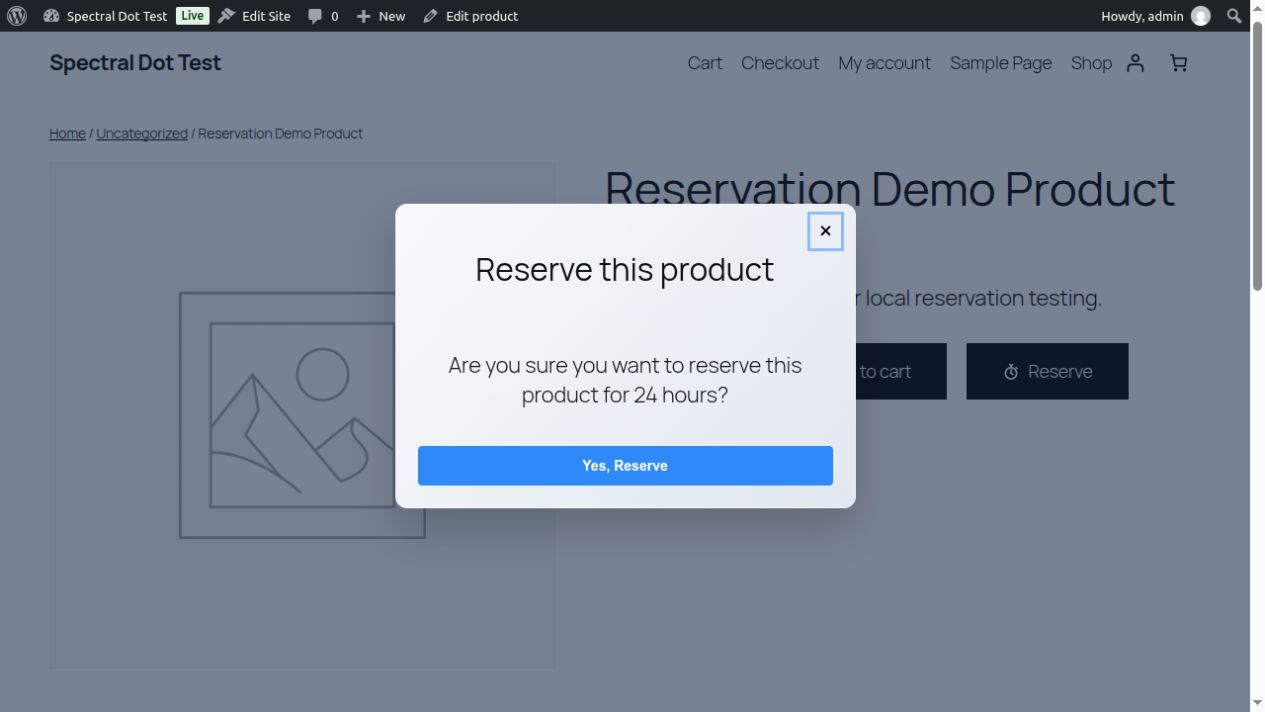
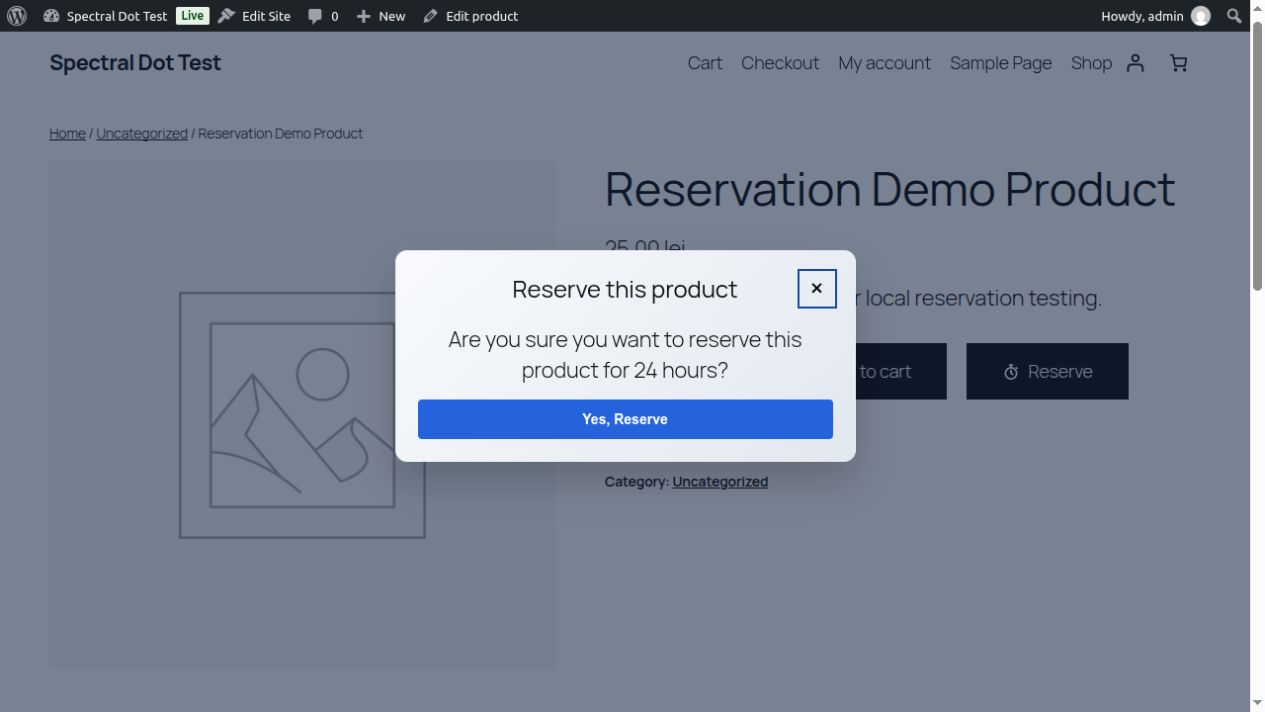
Separate reservation confirmation and result modal states

Changed region(s): [[0.3083, 0.4635, 0.6783, 0.7416], [0.3083, 0.2781, 0.6783, 0.4326]]

diff --git a/assets/css/style.css b/assets/css/style.css
@@ -50,7 +50,7 @@ label[for="rez_check"] {
 }
 
 .sdpr-reservation-notice {
-    margin-bottom: 14px;
+    margin: 0;
     padding: 10px 12px;
     border-radius: 8px;
     border: 1px solid transparent;
@@ -426,7 +426,34 @@ label[for="rez_check"] {
     border: 1px solid rgba(11, 27, 58, 0.12);
 }
 
-/* Ensure form elements are stacked and centered */
+/* Reserve header space for the close control, even when the heading wraps. */
+.sdpr-modal-header {
+    display: grid;
+    grid-template-columns: 32px minmax(0, 1fr) 32px;
+    align-items: start;
+    gap: 8px;
+    margin-bottom: 20px;
+}
+
+#sdpr-reservation-dialog-title {
+    grid-column: 2;
+    grid-row: 1;
+    margin: 0;
+    font-size: 24px;
+    line-height: 1.3;
+    overflow-wrap: anywhere;
+}
+
+.sdpr-reservation-prompt {
+    display: flex;
+    flex-direction: column;
+    gap: 15px;
+}
+
+#sdpr-reservation-dialog-description {
+    margin: 0;
+}
+
 #sdpr-reservation-form {
   display: flex;
   flex-direction: column;
@@ -457,10 +484,17 @@ label[for="rez_check"] {
 }
 
 /* Close button */
-.modal-close {
-  position: absolute;
-  top: 12px;
-  right: 16px;
+.sdpr-modal-header .modal-close {
+  position: static;
+  grid-column: 3;
+  grid-row: 1;
+  display: inline-flex;
+  align-items: center;
+  justify-content: center;
+  width: 32px;
+  height: 32px;
+  padding: 0;
+  line-height: 1;
   background: none;
   border: none;
   font-size: 24px;
@@ -468,12 +502,12 @@ label[for="rez_check"] {
   cursor: pointer;
   transition: color 0.2s;
 }
-.modal-close:hover {
+.sdpr-modal-header .modal-close:hover {
   color: #000;
 }
 
-.modal-close:focus,
-.modal-close:focus-visible {
+.sdpr-modal-header .modal-close:focus,
+.sdpr-modal-header .modal-close:focus-visible {
 	color: #000;
 	outline: 2px solid var(--sdpr-modal-primary-dark);
 	outline-offset: 2px;

diff --git a/assets/js/frontend.js b/assets/js/frontend.js
@@ -3,6 +3,9 @@ jQuery(document).ready(function($) {
 	var $modal = $('#sdpr-reservation-modal');
 	var requestPending = false;
 	var reservationComplete = false;
+	var $title = $('#sdpr-reservation-dialog-title');
+	var confirmationTitle = $title.text();
+	var confirmationButtonText = $modal.find('button[type="submit"]').text();
 
 	function responseMessage(response, fallback) {
 		return response && typeof response.data === 'string' && response.data ? response.data : fallback;
@@ -71,6 +74,11 @@ jQuery(document).ready(function($) {
         }
 
         clearNotice();
+		reservationComplete = false;
+		$title.text(confirmationTitle);
+		$modal.find('button[type="submit"]').prop('disabled', false).text(confirmationButtonText);
+		$modal.find('.sdpr-reservation-prompt').show();
+		$modal.find('[role="dialog"]').attr('aria-describedby', 'sdpr-reservation-dialog-description');
         $('#sdpr-reservation-form').find('input[name="product_id"]').val(productId);
         
 		$modal.show().attr('aria-hidden', 'false');
@@ -140,6 +148,9 @@ jQuery(document).ready(function($) {
         .done(function(response) {
             if (response.success) {
 				reservationComplete = true;
+				$modal.find('.sdpr-reservation-prompt').hide();
+				$title.text($title.attr('data-result-title'));
+				$modal.find('[role="dialog"]').attr('aria-describedby', 'sdpr-reservation-result');
                 var successMessage = responseMessage(response, sdprFrontend.i18n.success);
                 renderNotice(successMessage, 'success');
 				$submitBtn.prop('disabled', false).text(sdprFrontend.i18n.done).trigger('focus');

diff --git a/templates/modal-template.php b/templates/modal-template.php
@@ -71,16 +71,19 @@ if ( $sdpr_enable_popup_customization ) {
 
 <div id="sdpr-reservation-modal" class="modal-overlay sdpr-modal-overlay" aria-hidden="true" style="display: none;">
 	<div class="modal-box sdpr-modal-box<?php echo $sdpr_enable_popup_customization ? ' sdpr-modal-box--custom' : ''; ?>" role="dialog" aria-modal="true" aria-labelledby="sdpr-reservation-dialog-title" aria-describedby="sdpr-reservation-dialog-description" tabindex="-1" style="<?php echo esc_attr( $sdpr_modal_box_style ); ?>">
-		<button type="button" class="modal-close" aria-label="<?php esc_attr_e( 'Close reservation dialog', 'spectral-dot-reservations' ); ?>">&times;</button>
+		<div class="sdpr-modal-header">
+			<h2 id="sdpr-reservation-dialog-title" data-result-title="<?php echo esc_attr( $sdpr_requires_approval ? __( 'Request submitted', 'spectral-dot-reservations' ) : __( 'Reservation confirmed', 'spectral-dot-reservations' ) ); ?>"><?php esc_html_e( 'Reserve this product', 'spectral-dot-reservations' ); ?></h2>
+			<button type="button" class="modal-close" aria-label="<?php esc_attr_e( 'Close reservation dialog', 'spectral-dot-reservations' ); ?>">&times;</button>
+		</div>
 		<form id="sdpr-reservation-form">
 			<input type="hidden" name="action" value="sdpr_reserve">
 			<input type="hidden" name="security" value="<?php echo esc_attr( wp_create_nonce( 'sdpr_nonce' ) ); ?>">
 			<input type="hidden" name="product_id" value="<?php echo esc_attr( $sdpr_pid ); ?>">
 
-			<div class="sdpr-reservation-notice" role="status" aria-live="polite" aria-atomic="true" style="display: none;"></div>
-			<?php do_action( 'sdpr_reservation_form_fields', $sdpr_product ); ?>
+			<div id="sdpr-reservation-result" class="sdpr-reservation-notice" role="status" aria-live="polite" aria-atomic="true" style="display: none;"></div>
+			<div class="sdpr-reservation-prompt">
+				<?php do_action( 'sdpr_reservation_form_fields', $sdpr_product ); ?>
 
-			<h2 id="sdpr-reservation-dialog-title"><?php esc_html_e( 'Reserve this product', 'spectral-dot-reservations' ); ?></h2>
 				<p id="sdpr-reservation-dialog-description">
 					<?php
 					if ( $sdpr_requires_approval ) {
@@ -103,7 +106,8 @@ if ( $sdpr_enable_popup_customization ) {
 						);
 					}
 					?>
-			</p>
+				</p>
+			</div>
 
 			<button type="submit" class="submit-btn sdpr-button-primary"><?php esc_html_e( 'Yes, Reserve', 'spectral-dot-reservations' ); ?></button>
 		</form>

diff --git a/tests/integration-smoke.php b/tests/integration-smoke.php
@@ -160,6 +160,18 @@ ob_start();
 ( static function () { include SDPR_PLUGIN_PATH . 'templates/modal-template.php'; } )();
 $sdpr_modal_markup   = ob_get_clean();
 sdpr_assert( false !== strpos( $sdpr_modal_markup, 'up to 1 hour.' ) && false !== strpos( $sdpr_modal_markup, 'held for 24 hours.' ), 'Approval dialog substitutes and pluralizes both translated durations.' );
+sdpr_assert( false !== strpos( $sdpr_modal_markup, 'data-result-title="Request submitted"' ), 'Pending reservation modal provides its translated result heading.' );
+sdpr_assert( strpos( $sdpr_modal_markup, 'class="sdpr-modal-header"' ) < strpos( $sdpr_modal_markup, '<form id="sdpr-reservation-form"' ) && 1 === preg_match( '/class="sdpr-modal-header">.*?class="modal-close".*?<\/div>\s*<form/s', $sdpr_modal_markup ), 'The modal heading and close control occupy a separate header before notices.' );
+sdpr_assert( false !== strpos( $sdpr_modal_markup, 'id="sdpr-reservation-result"' ) && false !== strpos( $sdpr_modal_markup, 'class="sdpr-reservation-prompt"' ), 'Modal result and confirmation content have separate accessible targets.' );
+$sdpr_modal_options = get_option( 'sdpr_options' );
+$sdpr_active_modal_options = $sdpr_modal_options;
+$sdpr_active_modal_options['require_admin_approval'] = 0;
+update_option( 'sdpr_options', $sdpr_active_modal_options );
+ob_start();
+( static function () { include SDPR_PLUGIN_PATH . 'templates/modal-template.php'; } )();
+$sdpr_active_modal_markup = ob_get_clean();
+update_option( 'sdpr_options', $sdpr_modal_options );
+sdpr_assert( false !== strpos( $sdpr_active_modal_markup, 'data-result-title="Reservation confirmed"' ), 'Immediate reservation modal provides its translated result heading.' );
 $GLOBALS['product']                     = $sdpr_original_product;
 $GLOBALS['wp_query']->queried_object    = $sdpr_original_query_object;
 $GLOBALS['wp_query']->queried_object_id = $sdpr_original_query_id;

diff --git a/.wordpress-org/README.md b/.wordpress-org/README.md
@@ -19,7 +19,7 @@ Directory artwork is optional for initial code submission. Use these exact names
 The screenshot captions in `readme.txt` match these sequential files:
 - `screenshot-1.jpg` - Plugin settings page
 - `screenshot-2.jpg` - Product page with Reserve button and stopwatch icon
-- `screenshot-3.jpg` - Reservation modal (current layout capture; final contrast-style capture pending)
+- `screenshot-3.jpg` - Reservation confirmation modal
 - `screenshot-4.jpg` - My Account reservations page with active and pending records
 - `screenshot-5.jpg` - Admin reservations dashboard
 - `screenshot-6.jpg` - Basic reservation analytics
@@ -28,9 +28,9 @@ The screenshot captions in `readme.txt` match these sequential files:
 
 Screenshots 1, 2, 4, 5 and 6 were captured directly from the current Free development files on 2026-10-02 and visually reviewed. They show only temporary demonstration products and reservations, not real customer data. No interface elements were recreated or edited into the images. The demo records were removed and the original test-site settings restored after capture.
 
-Screenshot 3 was refreshed from the actual modal on 2026-10-02, including the current stopwatch Reserve button in the product background. Modal opening, Tab/Shift+Tab wrapping, Escape closing, opener-focus restoration, active success and duplicate error display were checked through the browser. The capture then exposed insufficient contrast on the modal submit button. Its default/hover colors and keyboard outlines have been corrected with automated regression coverage, but the image must be retaken to show those final styles.
+Screenshot 3 was refreshed from the actual modal on 2026-10-02 after the contrast and result-state corrections, including the current stopwatch Reserve button in the product background. The heading and close button have a dedicated header row. Successful submissions replace the confirmation question with a result heading and notice; errors keep the confirmation form available. Active and pending success, duplicate errors, modal reset, Tab/Shift+Tab wrapping, Escape closing and opener-focus restoration were checked in the browser. Notice/close-control separation was verified at desktop, 390px and 320px widths.
 
-Browser input stalled again at My Account's native cancellation confirmation. A fresh tab rendered but ignored clicks, so pending-approval submission, native-confirmation admin/customer actions and the final styled-modal capture remain unverified. The complete six-image set is **not yet ready for publication**, and these captures do not constitute final interaction/accessibility sign-off or an exact-release-ZIP test.
+Earlier browser input stalled at My Account's native cancellation confirmation. After recovery, the modal checks and final styled-modal capture were completed. Native-confirmation admin/customer actions still need their broader visual retest. All six images now reflect the current captured interfaces, but these captures do not constitute final interaction/accessibility sign-off or an exact-release-ZIP test.
 
 All screenshots use their actual JPEG format and `.jpg` extension. The previous modal reference was also JPEG data despite its `.png` filename; its extension was corrected without changing its pixels. WordPress.org supports both `.jpg` and `.png` screenshot names; keep exactly one file per number. See the [official directory asset guidance](https://developer.wordpress.org/plugins/wordpress-org/plugin-assets/#screenshots).
 
@@ -45,7 +45,7 @@ All screenshots use their actual JPEG format and `.jpg` extension. The previous 
 #### 3. Reservation Dialog
 ![Reservation dialog and the current stopwatch action in its product background](screenshot-3.jpg)
 
-Layout reference captured before the final button-contrast correction. Retake before publication.
+Current confirmation state with the corrected button contrast and separate close-control header.
 
 #### 4. Customer Reservations
 ![My Account table showing active and pending reservations](screenshot-4.jpg)
